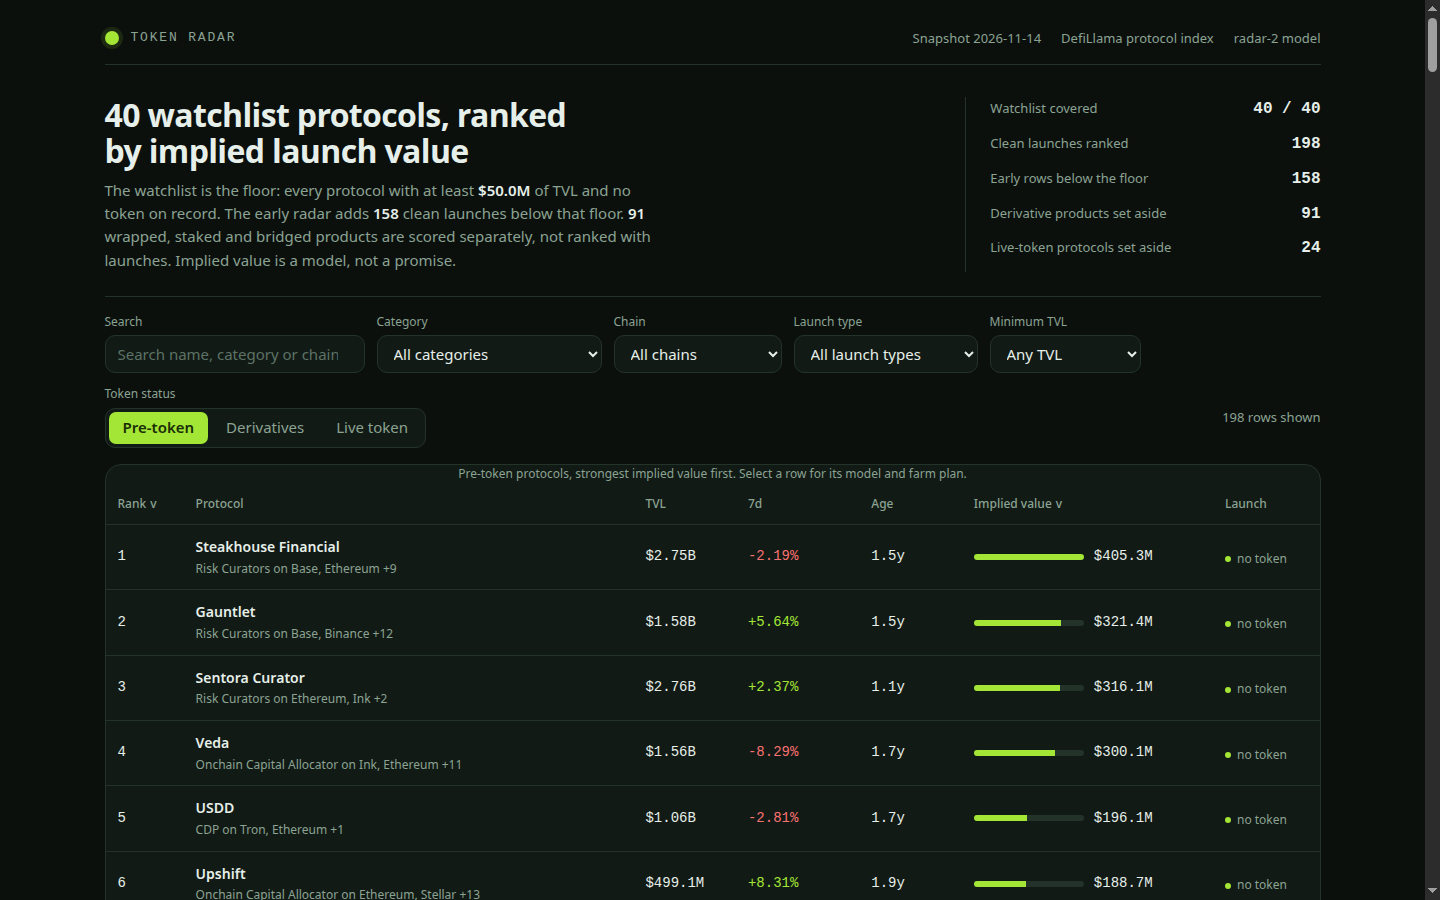
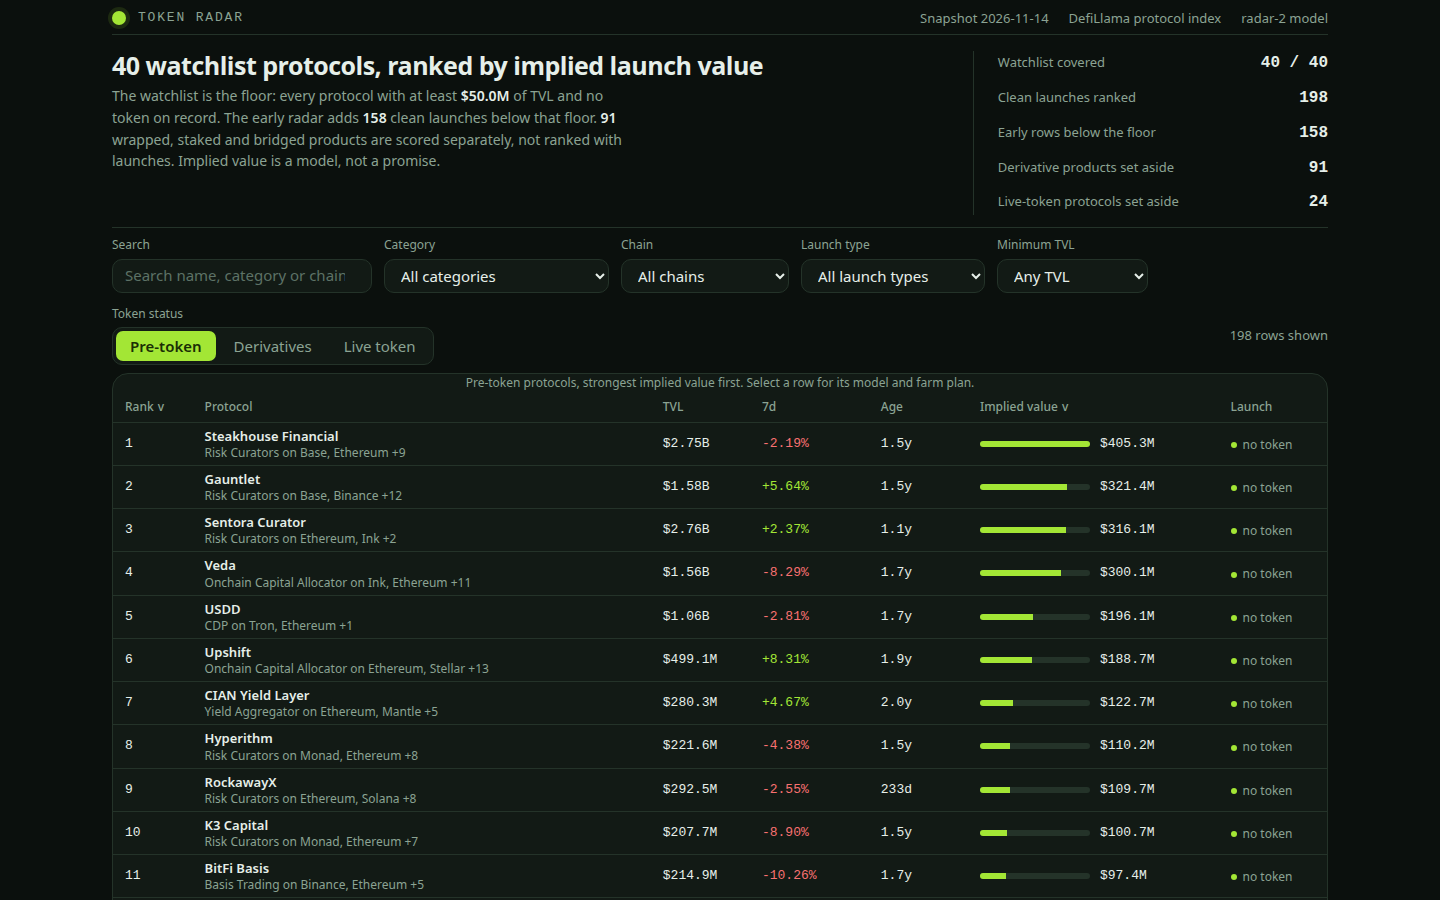
Round 2: tighter screenshots, protocol-specific farm steps, model note

diff --git a/dashboard/app.css b/dashboard/app.css
@@ -30,7 +30,7 @@ body {
   text-wrap: pretty;
 }
 h1, h2, h3 { margin: 0; letter-spacing: -0.02em; text-wrap: balance; }
-h1 { font-size: 32px; line-height: 1.12; font-weight: 650; }
+h1 { font-size: 25px; line-height: 1.12; font-weight: 650; }
 h2 { font-size: 19px; line-height: 1.25; font-weight: 650; }
 h3 { font-size: 15px; line-height: 1.3; font-weight: 650; }
 p { margin: 0; }
@@ -40,40 +40,40 @@ button { cursor: pointer; }
 .skip:focus { left: 16px; top: 16px; }
 :focus-visible { outline: 2px solid var(--accent); outline-offset: 2px; }
 
-.wrap { max-width: 1280px; margin: 0 auto; padding: 28px 32px 56px; }
-.top { display: flex; align-items: flex-start; justify-content: space-between; gap: 24px; padding-bottom: 16px; border-bottom: 1px solid var(--border); }
+.wrap { max-width: 1280px; margin: 0 auto; padding: 8px 32px 56px; }
+.top { display: flex; align-items: flex-start; justify-content: space-between; gap: 24px; padding-bottom: 6px; border-bottom: 1px solid var(--border); }
 .brand { display: flex; align-items: center; gap: 12px; }
 .pulse { width: 14px; height: 14px; border-radius: 50%; background: var(--accent); box-shadow: 0 0 0 4px var(--accent-dim); flex: none; }
 .brand-name { font-family: var(--font-num); font-size: 13px; letter-spacing: 0.14em; text-transform: uppercase; color: var(--muted); }
 .top-meta { display: flex; flex-wrap: wrap; gap: 8px 20px; justify-content: flex-end; color: var(--muted); font-size: 13px; }
 .top-meta span { white-space: nowrap; }
 
-.lede { display: grid; grid-template-columns: minmax(0, 1.4fr) minmax(280px, 0.6fr); gap: 32px; padding: 32px 0 24px; }
-.lede p { color: var(--muted); max-width: 64ch; margin-top: 10px; }
+.lede { display: grid; grid-template-columns: minmax(0, 1.4fr) minmax(280px, 0.6fr); gap: 32px; padding: 16px 0 12px; }
+.lede p { color: var(--muted); max-width: 64ch; margin-top: 6px; font-size: 14px; }
 .lede p b { color: var(--ink); font-weight: 600; }
 .stats { display: grid; gap: 10px; align-content: start; border-left: 1px solid var(--border); padding-left: 24px; }
 .stat { display: flex; align-items: baseline; justify-content: space-between; gap: 12px; }
 .stat b { font-family: var(--font-num); font-size: 16px; font-weight: 600; }
 .stat span { color: var(--muted); font-size: 13px; }
 
-.controls { display: flex; flex-wrap: wrap; align-items: end; gap: 12px; padding: 16px 0; border-top: 1px solid var(--border); }
+.controls { display: flex; flex-wrap: wrap; align-items: end; gap: 12px; padding: 8px 0; border-top: 1px solid var(--border); }
 .field { display: grid; gap: 4px; }
 .field label { color: var(--muted); font-size: 12px; }
 .field input, .field select {
-  min-height: 38px; padding: 0 12px; border: 1px solid var(--border); border-radius: var(--radius);
+  min-height: 34px; padding: 0 12px; border: 1px solid var(--border); border-radius: var(--radius);
   background: var(--surface); min-width: 150px;
 }
 .field input { min-width: 260px; }
 .field input::placeholder { color: var(--faint); }
 .tabs { display: flex; gap: 4px; padding: 3px; border: 1px solid var(--border); border-radius: var(--radius); background: var(--surface); }
-.tabs button { min-height: 32px; padding: 0 14px; border: 0; border-radius: 7px; background: transparent; color: var(--muted); }
+.tabs button { min-height: 30px; padding: 0 14px; border: 0; border-radius: 7px; background: transparent; color: var(--muted); }
 .tabs button[aria-pressed="true"] { background: var(--accent); color: var(--accent-ink); font-weight: 600; }
 .count { margin-left: auto; color: var(--muted); font-size: 13px; align-self: center; }
 
 .panel { background: var(--surface); border: 1px solid var(--border); border-radius: var(--radius-lg); overflow: hidden; }
 .table-wrap { overflow-x: auto; }
-table { width: 100%; border-collapse: collapse; font-size: 14px; }
-th, td { padding: 11px 12px; border-bottom: 1px solid var(--border); text-align: left; vertical-align: middle; }
+table { width: 100%; border-collapse: collapse; font-size: 13px; }
+th, td { padding: 5px 12px; border-bottom: 1px solid var(--border); text-align: left; vertical-align: middle; }
 th { color: var(--muted); font-size: 12px; font-weight: 550; white-space: nowrap; }
 th button { display: inline-flex; align-items: center; gap: 4px; border: 0; background: none; padding: 0; color: inherit; font: inherit; }
 th button:hover { color: var(--ink); }
@@ -81,7 +81,7 @@ tbody tr { cursor: pointer; }
 tbody tr:hover { background: var(--surface-2); }
 tbody tr[data-selected="true"] { background: var(--accent-dim); }
 .num { font-family: var(--font-num); font-variant-numeric: tabular-nums; white-space: nowrap; }
-.name { display: grid; gap: 2px; }
+.name { display: grid; gap: 1px; line-height: 1.25; }
 .name b { font-weight: 600; }
 .sub { color: var(--muted); font-size: 12px; }
 .pos { color: var(--accent); }
@@ -116,7 +116,7 @@ tbody tr[data-selected="true"] { background: var(--accent-dim); }
 
 .detail {
   position: fixed; top: 0; right: 0; bottom: 0; width: min(540px, 94vw); z-index: 20;
-  background: var(--surface); border-left: 1px solid var(--border); padding: 24px;
+  background: var(--surface); border-left: 1px solid var(--border); padding: 14px;
   overflow-y: auto; margin: 0 0 0 auto; max-height: 100%;
 }
 .detail::backdrop { background: rgba(4, 8, 6, 0.6); }
@@ -124,15 +124,15 @@ tbody tr[data-selected="true"] { background: var(--accent-dim); }
 .detail-head > div { min-width: 0; }
 .detail-head .sub { overflow-wrap: anywhere; }
 .close { flex: none; min-width: 34px; min-height: 34px; padding: 0 10px; white-space: nowrap; border: 1px solid var(--border); border-radius: var(--radius); background: var(--surface); color: var(--ink); }
-.detail h2 { margin-top: 6px; }
+.detail h2 { margin-top: 4px; }
 .detail .sub { margin-top: 4px; }
-.detail-section { margin-top: 24px; padding-top: 18px; border-top: 1px solid var(--border); }
-.detail-section h3 { margin-bottom: 10px; }
-.equation { display: grid; gap: 8px; font-family: var(--font-num); font-size: 13px; }
+.detail-section { margin-top: 10px; padding-top: 8px; border-top: 1px solid var(--border); }
+.detail-section h3 { margin-bottom: 5px; }
+.equation { display: grid; gap: 3px; font-family: var(--font-num); font-size: 13px; line-height: 1.35; }
 .equation div { display: flex; justify-content: space-between; gap: 12px; }
 .equation span { color: var(--muted); }
-.steps { margin: 0; padding-left: 22px; display: grid; gap: 12px; }
-.steps li { padding-left: 4px; }
+.steps { margin: 0; padding-left: 22px; display: grid; gap: 6px; font-size: 14px; }
+.steps li { padding-left: 4px; line-height: 1.35; }
 .steps b { display: block; font-weight: 550; }
 .cost { color: var(--muted); font-size: 12px; font-family: var(--font-num); }
 .foot { margin-top: 24px; color: var(--faint); font-size: 12px; max-width: 78ch; }

diff --git a/lib/model.ts b/lib/model.ts
@@ -480,7 +480,7 @@ export function farmSteps(p: SnapshotProtocol, age: number | null): FarmStep[] {
   const hold = holdDaysFor(age);
   return [
     {
-      text: 'Open a fresh wallet for this farm only, fund it with the capital below, and keep its seed phrase offline.',
+      text: `Open a fresh wallet for this farm only, fund it on ${chain} with $${capital} for this farm, and keep its seed phrase offline.`,
       cost: 'under $3 of gas for the first transaction',
       time: '5 minutes',
     },
@@ -500,12 +500,12 @@ export function farmSteps(p: SnapshotProtocol, age: number | null): FarmStep[] {
       time: `${hold} days`,
     },
     {
-      text: "Before you touch a withdrawal, open the protocol's own points or rewards page and claim only through the link it publishes.",
+      text: `Before you touch a withdrawal, open ${p.name}'s own points or rewards page and claim only through the link it publishes.`,
       cost: 'no fee to check, and never pay to claim',
       time: '10 minutes',
     },
     {
-      text: 'Write the wallet, the dates and every transaction hash in a farm log, then plan the unwind before the token launches.',
+      text: `Write the wallet, the dates and every transaction hash for ${p.name} in a farm log, then plan the unwind before the token launches.`,
       cost: 'nothing but the log',
       time: '5 minutes',
     },

diff --git a/dashboard/app.js b/dashboard/app.js
@@ -330,7 +330,7 @@
     var m = DATA.model;
     return el('section', { class: 'panel section' },
       el('h2', { text: 'How implied value is computed' }),
-      el('p', { class: 'note', text: 'Every row is scored by one function of the snapshot figures. No protocol name is special-cased, and no row is hand-picked.' }),
+      el('p', { class: 'note', text: 'Every row is scored by one function of three snapshot figures only — TVL, seven-day growth and age — with no token on record, no protocol name special-cased, and no row hand-picked; live-token protocols are shown at market value, never ranked.' }),
       el('div', { class: 'formula' },
         el('b', { text: 'implied = round( ' }),
         'tvl ^ ' + m.size_power + ' x ' + m.size_scale + ' x (1 + clamp(change_7d, ' + m.growth_floor + ', ' + m.growth_cap + ') / 100 x ' + m.growth_weight + ') x (' + m.maturity_floor + ' + ' + m.maturity_peak + ' x exp(-((age - ' + m.maturity_peak_days + ') / ' + m.maturity_spread_days + ')^2)) x (1 + ' + m.chain_bonus + ' x min(chains - 1, ' + m.chain_bonus_cap + ')) x derivative',
